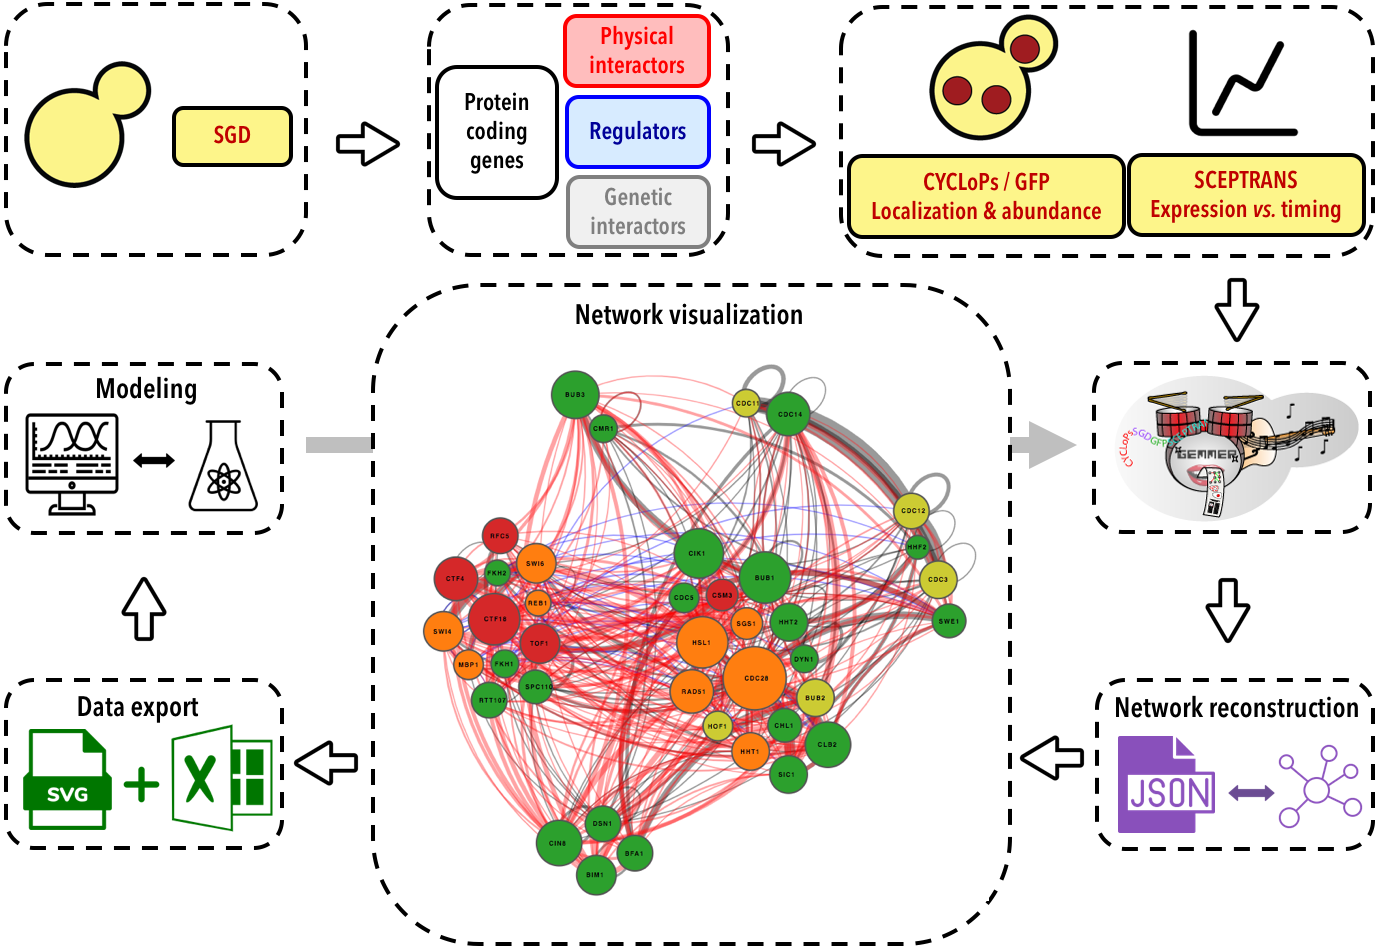
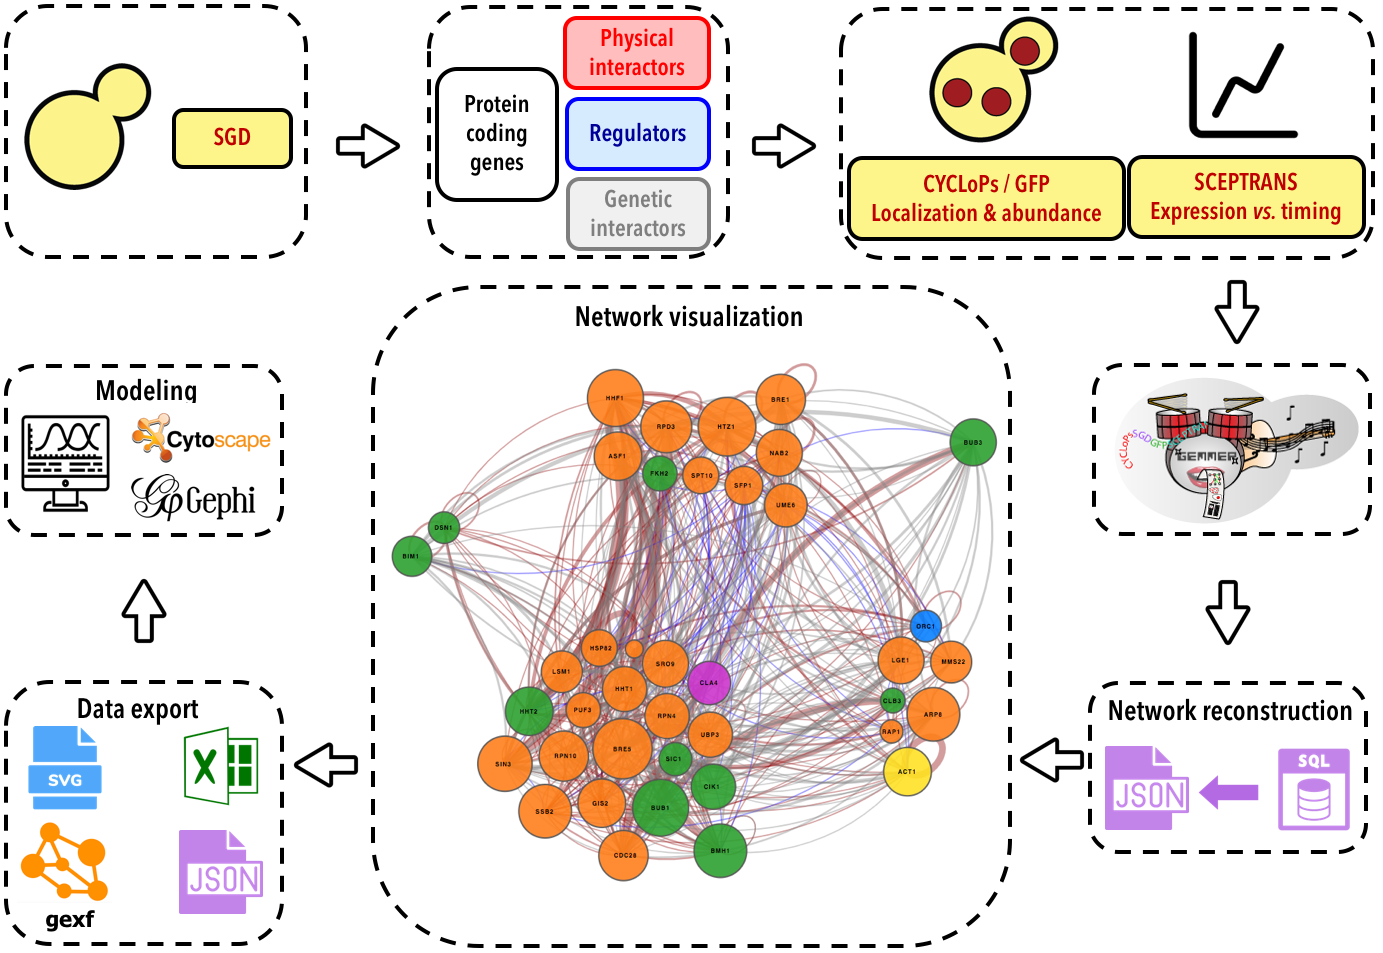
Documentation update

diff --git a/pages/documentation.html b/pages/documentation.html
@@ -404,7 +404,8 @@ blockquote {
 <li>With various filtering possibilities</li>
 </ul>
 </li>
-<li>Data export for interaction networks to SVG and Excel</li>
+<li>Data export for interaction networks to SVG, JSON, GEXF and Excel</li>
+<li>Excel and GEXF export formats may be imported for further analysis into Gephi and Cytoscape.</li>
 </ul>
 <h2>GEMMER Workflow</h2>
 <p><img src="img/GEMMER_workflow.png" alt="Workflow"></p>
@@ -429,23 +430,22 @@ blockquote {
 <h4>Information for a specific gene</h4>
 <p>On the page for a specific gene, i.e. <a href="index.php?id=database&amp;gene=SIC1">SIC1</a>, users have access to descriptions of the gene (from SGD), GEMMER's functionality predictions based on GO terms from SGD, CYCLoPs/YeastGFP localization and abundance data if available, timing and cell cycle phase of peak transcription from SCEPTRANS and the set of genes it interacts with. The table of interactions allows the user to move on to pages specific for the interactors, search the interactors, and links directly to PubMed to retrieve the original publication where the interaction was shown.</p>
 <h2>Visualizing a network</h2>
+<h3>Technical details</h3>
 <p>The central access hub for the tool is formed by the index.php webpage. The form on this page allows user input, e.g. which gene(s) to center the visualization around. An AJAX script submits the form for processing and displays a brief message to the user. Once submitted a PHP processing page makes sure the input is not faulty and if everything checks out executes a Python script 'gen_visualization'. Once this script is done it will have generated a JSON file with the necessary information for the visualization. The user is then automatically forwarded to a new page with a &quot;box&quot; for the visualization with an embedded D3 visualization based on the JSON file. This page also contains download links for an SVG image of the visualization and an Excel file with all the information on the visualized genes and their
 interactions. Furthermore various tables with this information are also displayed on the page.</p>
-<!-- ### The form (basic)
-![Basic form input](img/input_form_basic.png)
-
-### The form (advanced)
-![Advanced form input](img/input_form_advanced.png)
-
-### The visualization page and output
-
-
-### Exporting the image
-
-
-### Exporting the data in Excel format
-
-### Visualizing multiple genes together -->
+<h3>Using the form to build an interaction network visualization</h3>
+<p>The <a href="index.php?id=tool">visualization page</a> contains a form that is to be used to query the database for a specific interaction network satisfying your requirements.</p>
+<h3>The form</h3>
+<p><img src="img/input_form_advanced.png" alt="Advanced form input"></p>
+<h3>Example visualizations</h3>
+<p>We gathered together a <a href="index.php?id=examples">set of example visualizations</a> that highlight many of the settings and visualizations that GEMMER provides.</p>
+<h2>Data export and further analysis</h2>
+<p>GEMMER provides export of the data for each visualized network in JSON, Excel and GEXF formats. These are available below the visualized network under the &quot;Export options&quot; header.</p>
+<h3>Further analysis in Cytoscape</h3>
+<p><a href="http://cytoscape.org/">Cytoscape</a> is a desktop application that provides many additional functionalities beyond those present in GEMMER, especially through its plugin apps. To that end, it is useful to do exploratory analysis and visualization with GEMMER, export the data and import them in Cytoscape.</p>
+<p>To import a visualized network in Cytoscape: download the Excel file through GEMMER from the visualization page, then in Cytoscape click “import &gt; network &gt; file”. This yields the same network in Cytoscape. Crucially, the user has to select the “interactome” sheet to import.</p>
+<h3>Further analysis in Gephi</h3>
+<p><a href="http://www.gephi.org">Gephi</a> is another desktop application providing advanced network analysis capabilities. To open networks visualized with GEMMER in Gephi both the Excel and GEXF export formats may be used. To import an Excel file in Gephi: go to &quot;Import spreadsheet&quot; &gt; click the Excel file downloaded from GEMMER &gt; select the interactome sheet &gt; import as edges table.</p>
 <h2>Dependencies</h2>
 <p>GEMMER would not be possible without the following open-source projects:</p>
 <ul>

diff --git a/cgi-bin/generate_json_interactome.py b/cgi-bin/generate_json_interactome.py
@@ -617,7 +617,7 @@ def main(arguments,output_filename):
       timing['networkx export'] += timeit.default_timer() - start
 
       ######################################################
-      # Nxviz image generation: circos, arcplot, matrixplot
+      # Nxviz image generation: matrixplot
       ######################################################
       start = timeit.default_timer()
 
@@ -767,33 +767,33 @@ def main(arguments,output_filename):
       ######################################################
       # Optional diagnostics
       ######################################################
-      # print("""
-      #   <div class="panel panel-default">
-      #     <div class="panel-heading">
-      #       <h4 class="panel-title">
-      #         <a data-toggle="collapse" data-parent="#accordion" href="#collapse5">
-      #         Diagnostics: calculation time</a>
-      #       </h4>
-      #     </div>
-      #     <div id="collapse5" class="panel-collapse collapse">
-      #       <div class="panel-body">
-      #         <div class="table-responsive">
-      # """)
-      # timing['print frames'] = timeit.default_timer() - start_print
-      # timing['all'] = timeit.default_timer() - start_all
-      # df_timing = pd.Series(timing)
-      # df_timing = df_timing.to_frame()
-      # df_timing.columns = ['Time']
-      # df_timing['Percentage'] = [v/timing['all']*100 for v in df_timing['Time'] ]
-      # print(df_timing.sort_values('Percentage').to_html(classes=['table','table-condensed','table-bordered']))
-      # print("Accounted for:", sum([timing[k] for k in timing if k != 'all' ])/timing['all'] * 100, "percent of the time spent in Python.")
-      # print("""
-      #           </div>
-      #         </div>
-      #       </div>
-      #     </div>
-      #   </div>
-      #   """)
+      print("""
+        <div class="panel panel-default">
+          <div class="panel-heading">
+            <h4 class="panel-title">
+              <a data-toggle="collapse" data-parent="#accordion" href="#collapse5">
+              Diagnostics: calculation time</a>
+            </h4>
+          </div>
+          <div id="collapse5" class="panel-collapse collapse">
+            <div class="panel-body">
+              <div class="table-responsive">
+      """)
+      timing['print frames'] = timeit.default_timer() - start_print
+      timing['all'] = timeit.default_timer() - start_all
+      df_timing = pd.Series(timing)
+      df_timing = df_timing.to_frame()
+      df_timing.columns = ['Time']
+      df_timing['Percentage'] = [v/timing['all']*100 for v in df_timing['Time'] ]
+      print(df_timing.sort_values('Percentage').to_html(classes=['table','table-condensed','table-bordered']))
+      print("Accounted for:", sum([timing[k] for k in timing if k != 'all' ])/timing['all'] * 100, "percent of the time spent in Python.")
+      print("""
+                </div>
+              </div>
+            </div>
+          </div>
+        </div>
+        """)
 
 
       ######################################################

diff --git a/pages/documentation.md b/pages/documentation.md
@@ -18,7 +18,8 @@ GEMMER aids (modeling) research by providing:
     - Centered around one or more genes
 - Data visualization using interactive D3 (not 3D!) drawings
     - With various filtering possibilities
-- Data export for interaction networks to SVG and Excel
+- Data export for interaction networks to SVG, JSON, GEXF and Excel
+- Excel and GEXF export formats may be imported for further analysis into Gephi and Cytoscape.
 
 ## GEMMER Workflow
 ![Workflow](img/GEMMER_workflow.png)
@@ -49,24 +50,32 @@ Through the [database page](index.php?id=database) users may inspect the data GE
 On the page for a specific gene, i.e. [SIC1](index.php?id=database&gene=SIC1), users have access to descriptions of the gene (from SGD), GEMMER's functionality predictions based on GO terms from SGD, CYCLoPs/YeastGFP localization and abundance data if available, timing and cell cycle phase of peak transcription from SCEPTRANS and the set of genes it interacts with. The table of interactions allows the user to move on to pages specific for the interactors, search the interactors, and links directly to PubMed to retrieve the original publication where the interaction was shown. 
 
 ## Visualizing a network
+
+### Technical details
 The central access hub for the tool is formed by the index.php webpage. The form on this page allows user input, e.g. which gene(s) to center the visualization around. An AJAX script submits the form for processing and displays a brief message to the user. Once submitted a PHP processing page makes sure the input is not faulty and if everything checks out executes a Python script 'gen_visualization'. Once this script is done it will have generated a JSON file with the necessary information for the visualization. The user is then automatically forwarded to a new page with a "box" for the visualization with an embedded D3 visualization based on the JSON file. This page also contains download links for an SVG image of the visualization and an Excel file with all the information on the visualized genes and their
 interactions. Furthermore various tables with this information are also displayed on the page. 
 
-<!-- ### The form (basic)
-![Basic form input](img/input_form_basic.png)
+### Using the form to build an interaction network visualization
+The [visualization page](index.php?id=tool) contains a form that is to be used to query the database for a specific interaction network satisfying your requirements.
 
-### The form (advanced)
+### The form
 ![Advanced form input](img/input_form_advanced.png)
 
-### The visualization page and output
+
+### Example visualizations
+We gathered together a [set of example visualizations](index.php?id=examples) that highlight many of the settings and visualizations that GEMMER provides. 
 
 
-### Exporting the image
+## Data export and further analysis
+GEMMER provides export of the data for each visualized network in JSON, Excel and GEXF formats. These are available below the visualized network under the "Export options" header.
 
+### Further analysis in Cytoscape
+[Cytoscape](http://cytoscape.org/) is a desktop application that provides many additional functionalities beyond those present in GEMMER, especially through its plugin apps. To that end, it is useful to do exploratory analysis and visualization with GEMMER, export the data and import them in Cytoscape. 
 
-### Exporting the data in Excel format
+To import a visualized network in Cytoscape: download the Excel file through GEMMER from the visualization page, then in Cytoscape click “import > network > file”. This yields the same network in Cytoscape. Crucially, the user has to select the “interactome” sheet to import. 
 
-### Visualizing multiple genes together -->
+### Further analysis in Gephi
+[Gephi](http://www.gephi.org) is another desktop application providing advanced network analysis capabilities. To open networks visualized with GEMMER in Gephi both the Excel and GEXF export formats may be used. To import an Excel file in Gephi: go to "Import spreadsheet" > click the Excel file downloaded from GEMMER > select the interactome sheet > import as edges table.
 
 
 ## Dependencies
